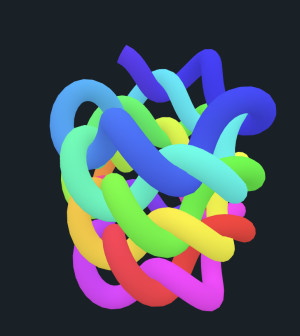
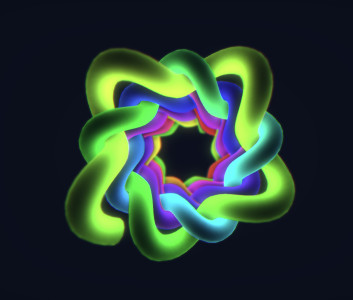
082_knitting_pattern

diff --git a/src/sketches/082_knitting_pattern/index.js b/src/sketches/082_knitting_pattern/index.js
@@ -6,11 +6,11 @@ import { Color3 } from '@babylonjs/core/Maths/math.color';
 import { ArcRotateCamera } from '@babylonjs/core/Cameras/arcRotateCamera';
 import { MeshBuilder } from '@babylonjs/core/Meshes/meshBuilder';
 import { CustomMaterial } from '@babylonjs/materials/custom/customMaterial';
-import '@babylonjs/core/Meshes/thinInstanceMesh';
 import '@babylonjs/core/Rendering/prePassRendererSceneComponent';
+import '@babylonjs/core/Rendering/depthRendererSceneComponent';
 import { DefaultRenderingPipeline } from '@babylonjs/core/PostProcesses/RenderPipeline';
 import { Mesh } from '@babylonjs/core/Meshes/mesh';
-import { SSAO2RenderingPipeline } from '@babylonjs/core/PostProcesses/RenderPipeline/Pipelines/ssao2RenderingPipeline';
+import { DepthOfFieldEffectBlurLevel } from '@babylonjs/core/PostProcesses/depthOfFieldEffect';
 import { Texture } from '@babylonjs/core/Materials/Textures/texture';
 
 import { getWebGLContext } from '@/utils/webgl';
@@ -39,17 +39,12 @@ const sketch = async ({ canvas, width, height }) => {
   //
 
   const scene = new Scene(engine);
-  scene.clearColor = Color3.FromHexString('#182026');
+  scene.clearColor = Color3.FromHexString('#10161A');
 
-  const camera = new ArcRotateCamera('camera', -0.1, 0.9, 20, new Vector3(0, -5, 0), scene);
-  camera.fov = 1.2;
+  const camera = new ArcRotateCamera('camera', 0, 0, 14, new Vector3(0, -5, 0), scene);
+  camera.fov = 1.5;
   camera.minZ = 0.1;
-  // camera.lowerRadiusLimit = 1;
-  // camera.upperRadiusLimit = 50;
-  // camera.wheelDeltaPercentage = 0.01;
-  // camera.pinchDeltaPercentage = 0.01;
-  // camera.lowerBetaLimit = 0.1;
-  // camera.upperBetaLimit = Math.PI / 2 - 0.001;
+  camera.wheelDeltaPercentage = 0.1;
 
   camera.attachControl(canvas, true);
 
@@ -64,7 +59,7 @@ const sketch = async ({ canvas, width, height }) => {
   const makeMesh = (phase, instance) => {
     const path = (() => {
       const path = [];
-      const length = Math.PI * 2 * 100;
+      const length = Math.PI * 2 * 120;
 
       for (let i = phase; i < length + phase; i += 1) {
         const sF = 0.0125;
@@ -94,7 +89,7 @@ const sketch = async ({ canvas, width, height }) => {
         path,
 
         radius: 0.7,
-        tessellation: 14,
+        tessellation: 11,
         sideOrientation: Mesh.DOUBLESIDE,
         updatable: true,
         instance,
@@ -123,6 +118,7 @@ const sketch = async ({ canvas, width, height }) => {
 
   meshMaterial.AddUniform('iTime', 'float');
   meshMaterial.AddUniform('iFrame', 'float');
+  meshMaterial.AddUniform('camPos', 'vec3');
 
   let frame = 0;
 
@@ -130,13 +126,38 @@ const sketch = async ({ canvas, width, height }) => {
     const time = (+new Date() - initTime) * 0.001;
     meshMaterial.getEffect().setFloat('iTime', time);
     meshMaterial.getEffect().setFloat('iFrame', frame);
+    meshMaterial.getEffect().setVector3('camPos', camera.position);
   };
 
-  // -------------------------------
+  // -------------------
+
+  const defaultPipeline = new DefaultRenderingPipeline('default', true, scene, [camera]);
+  defaultPipeline.fxaaEnabled = true;
+  defaultPipeline.imageProcessingEnabled = false;
+  defaultPipeline.samples = 16;
+
+  defaultPipeline.chromaticAberrationEnabled = true;
+  defaultPipeline.chromaticAberration.aberrationAmount = 10.0;
+
+  defaultPipeline.bloomEnabled = true;
+  defaultPipeline.bloomThreshold = 0.25;
+  defaultPipeline.bloomWeight = 0.65;
+  defaultPipeline.bloomKernel = 100;
+  defaultPipeline.bloomScale = 0.9;
+
+  defaultPipeline.grainEnabled = true;
+  defaultPipeline.grain.intensity = 5;
+  defaultPipeline.grain.animated = true;
+
+  defaultPipeline.depthOfFieldEnabled = true;
+  defaultPipeline.depthOfFieldBlurLevel = DepthOfFieldEffectBlurLevel.Low;
+  defaultPipeline.depthOfField.fStop = 0.5;
+  defaultPipeline.depthOfField.focalLength = 800;
+  defaultPipeline.depthOfField.focusDistance = 10000;
+  defaultPipeline.depthOfField.lensSize = 10;
 
   return {
     render({ time, deltaTime }) {
-      // const t = time * .2;
       mesh = makeMesh(frame, mesh);
 
       frame += 1;
